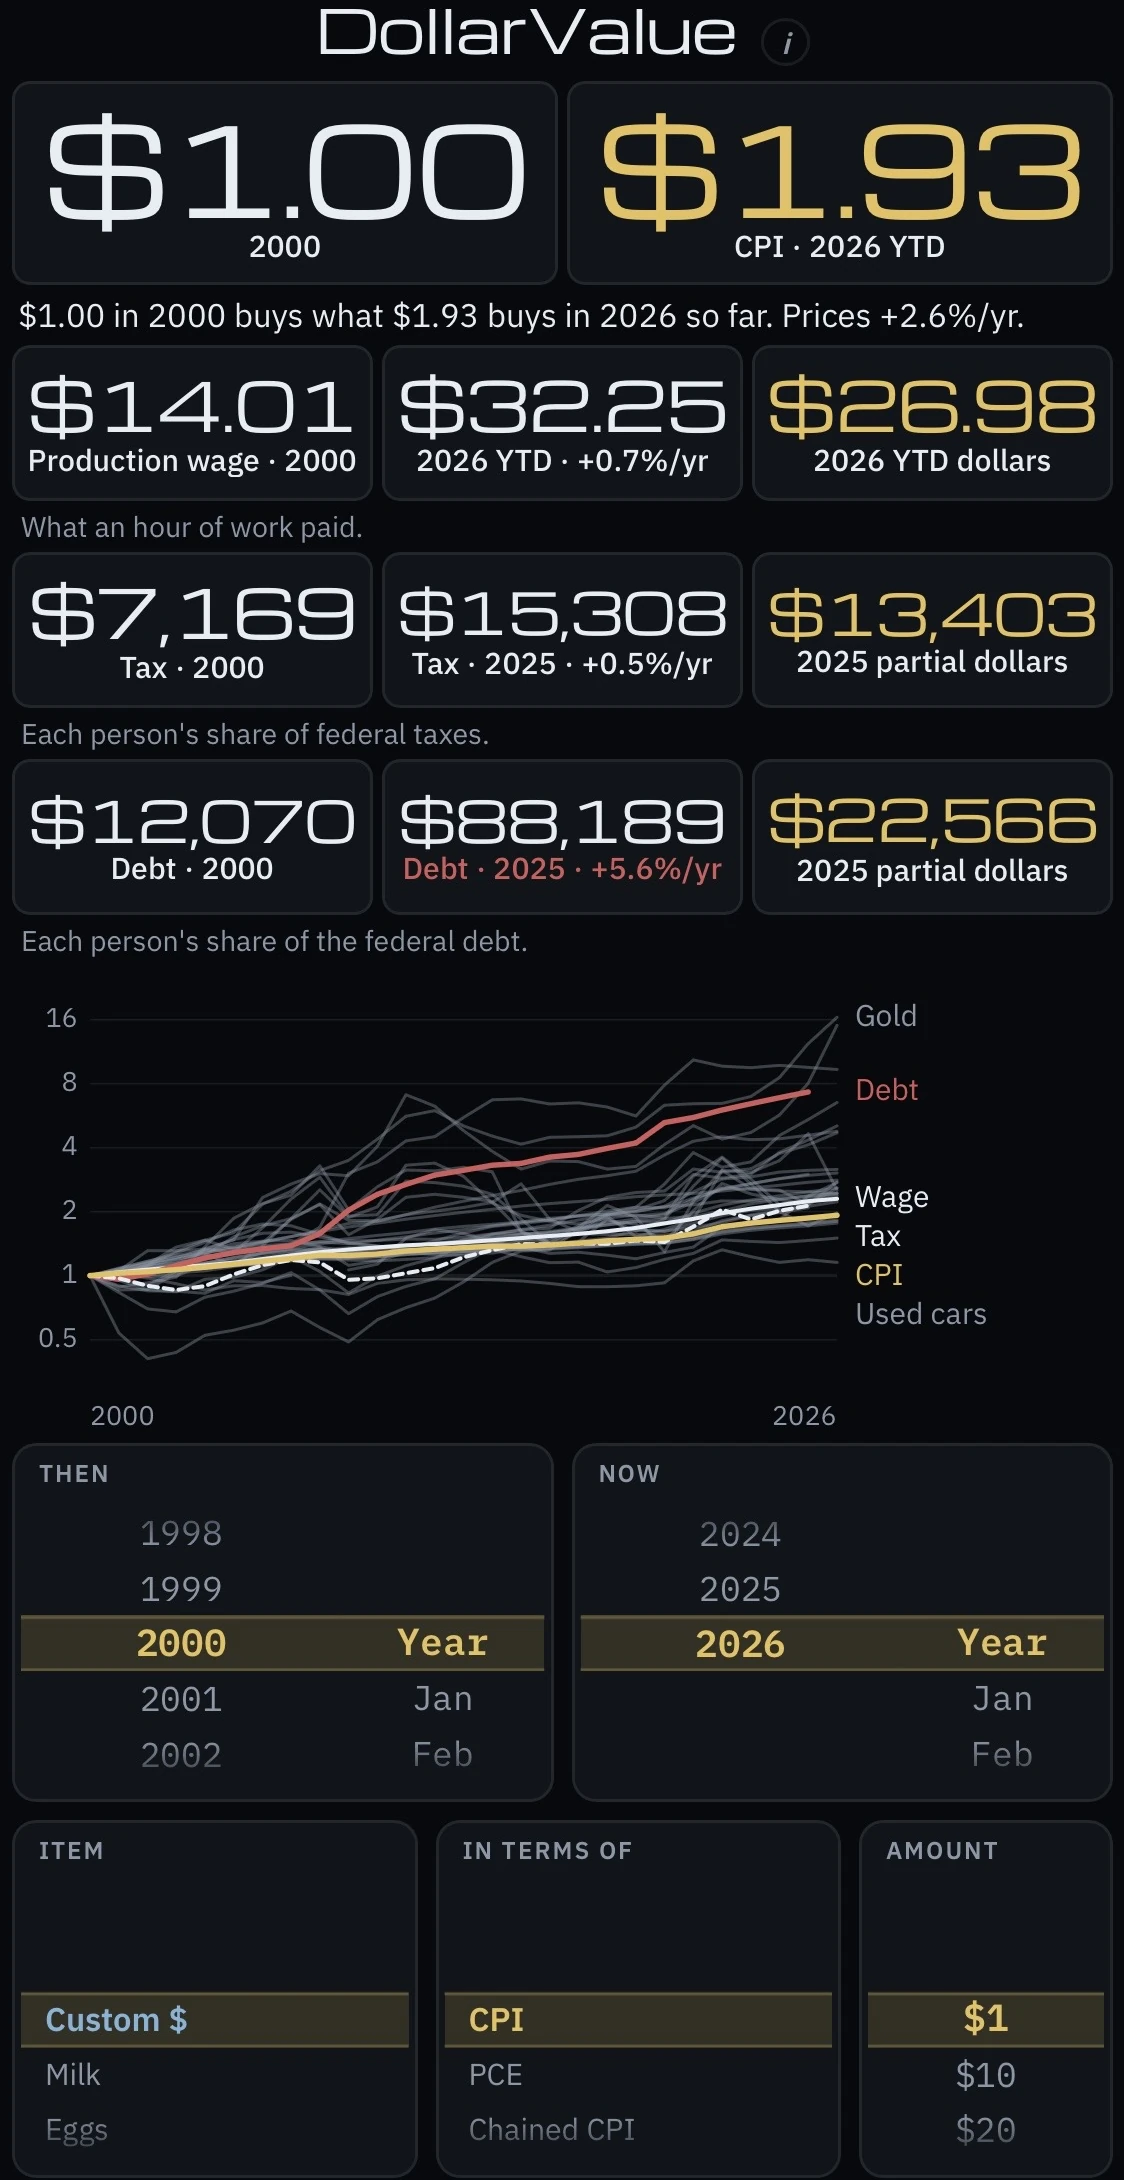
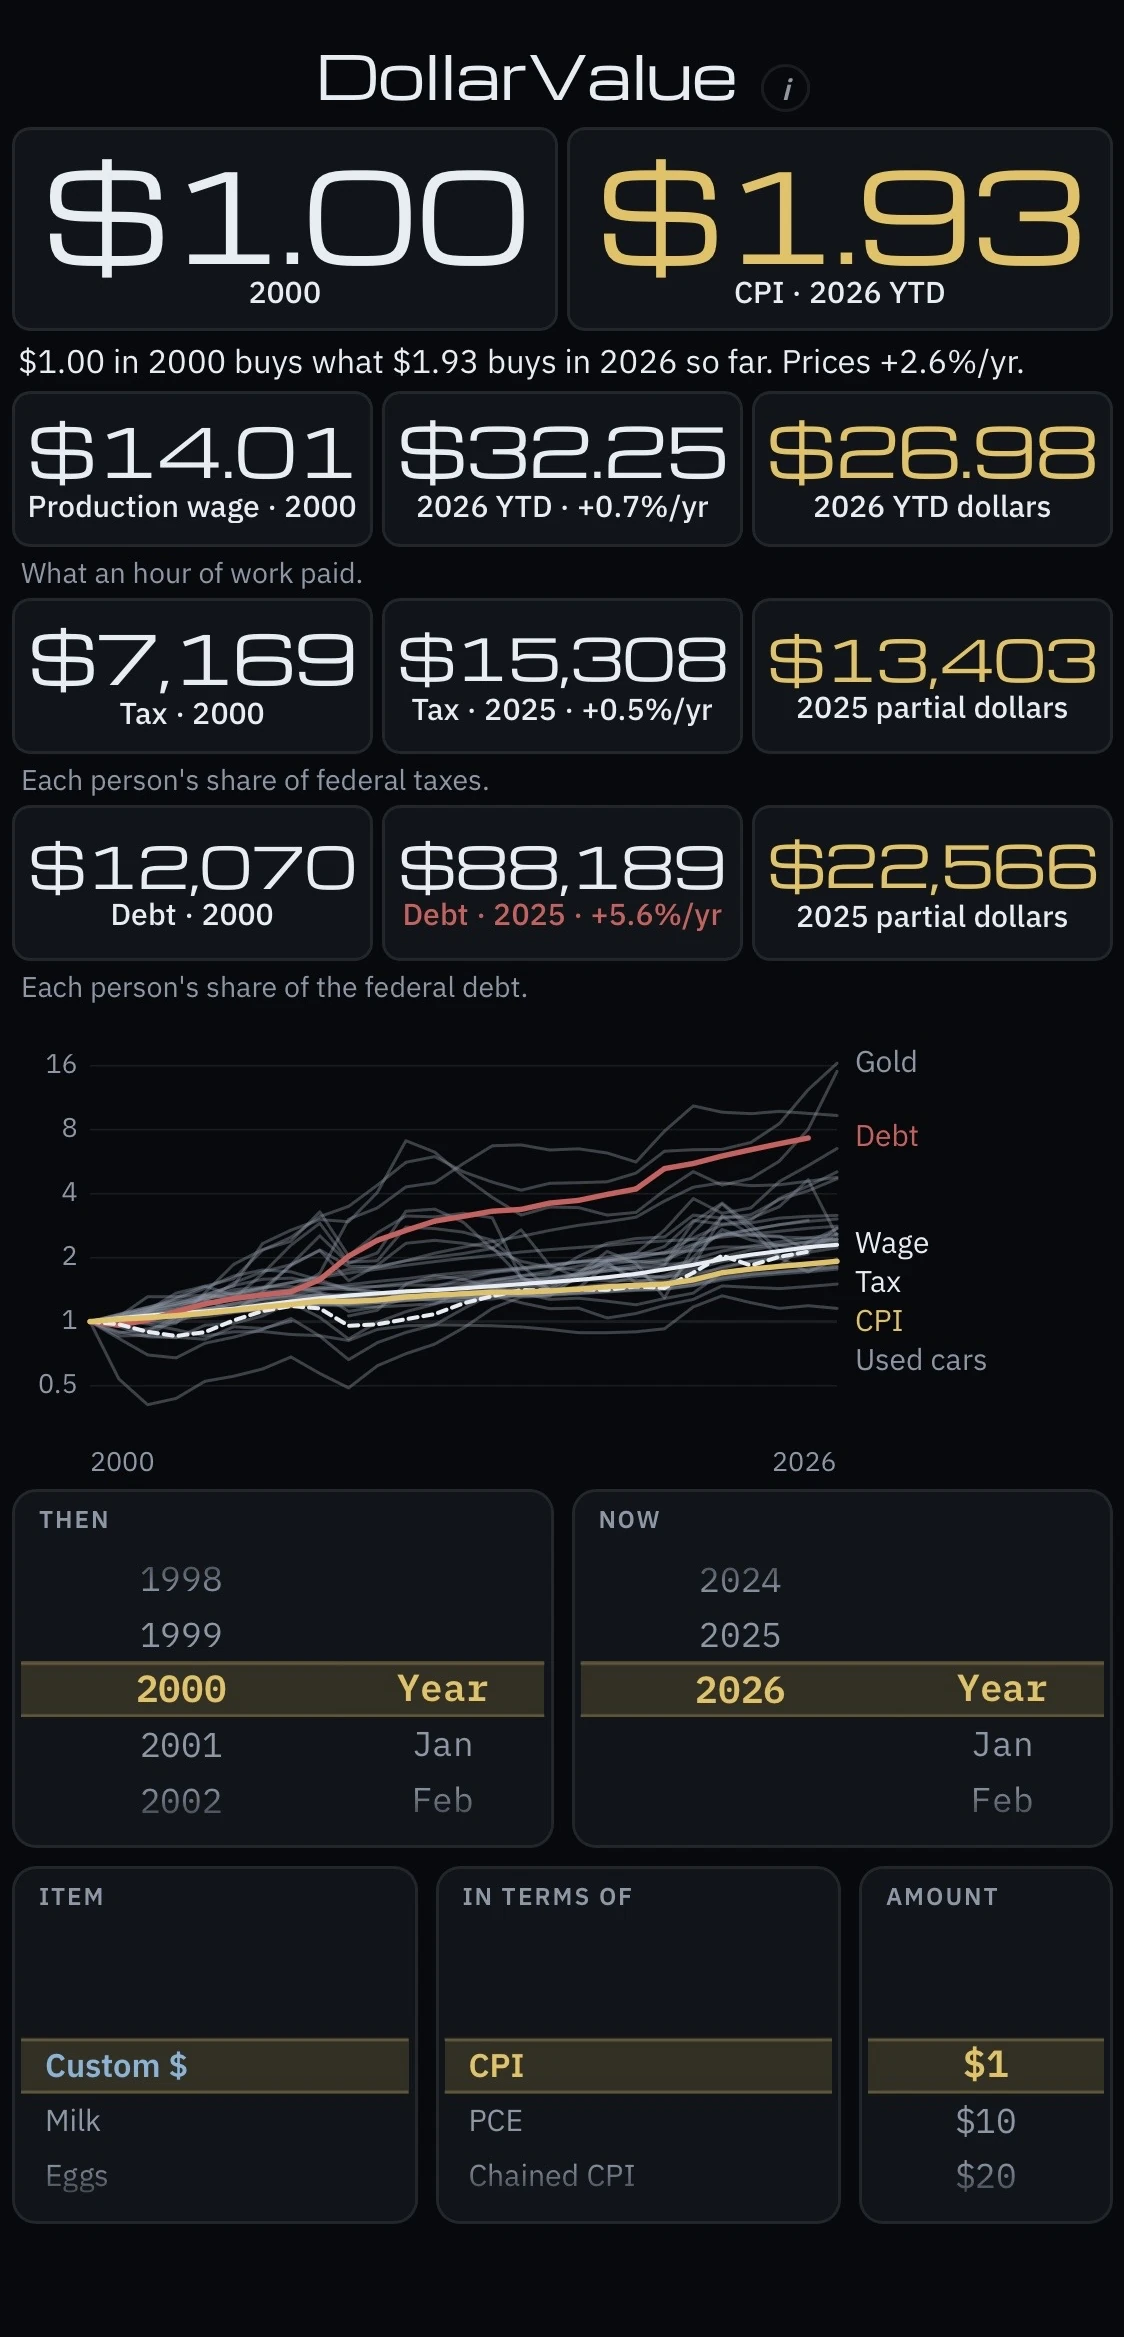
Align DollarValue card title and clear bottom corner clip.

diff --git a/apps.js b/apps.js
@@ -6,9 +6,9 @@ export const APPS = [
     id: "dollarvalue-app",
     name: "DollarValue",
     href: "https://dollarvalue-app.vercel.app",
-    img: "images/ss-dollarvalue.webp?v=1",
+    img: "images/ss-dollarvalue.webp?v=2",
     imgW: 1124,
-    imgH: 2180,
+    imgH: 2337,
     hint: "Then vs now · wages taxes debt · several worths, not just CPI",
   },
   {

diff --git a/hub.js b/hub.js
@@ -1,7 +1,7 @@
-import { APPS } from "./apps.js?v=27";
+import { APPS } from "./apps.js?v=28";
 
 const MODE_KEY = "markmaga-hub-mode";
-const SPHERE_MOD = "./sphere.js?v=24";
+const SPHERE_MOD = "./sphere.js?v=25";
 
 const gridEl = document.getElementById("app-grid");
 const gridPage = document.getElementById("grid-page");

diff --git a/sphere.js b/sphere.js
@@ -3,7 +3,7 @@
  * 16 live equator cards; extras sit on the inner ring. Ghost latitude bands.
  */
 import * as THREE from "./vendor/three.module.min.js";
-import { APPS } from "./apps.js?v=27";
+import { APPS } from "./apps.js?v=28";
 
 const REAL = 16;
 const EQUATOR_SLOT_DEG = 360 / REAL;

diff --git a/index.html b/index.html
@@ -293,7 +293,7 @@
       });
     })();
   </script>
-  <script type="module" src="hub.js?v=32"></script>
+  <script type="module" src="hub.js?v=33"></script>
   <script>
     window.va = window.va || function () { (window.vaq = window.vaq || []).push(arguments); };
   </script>
